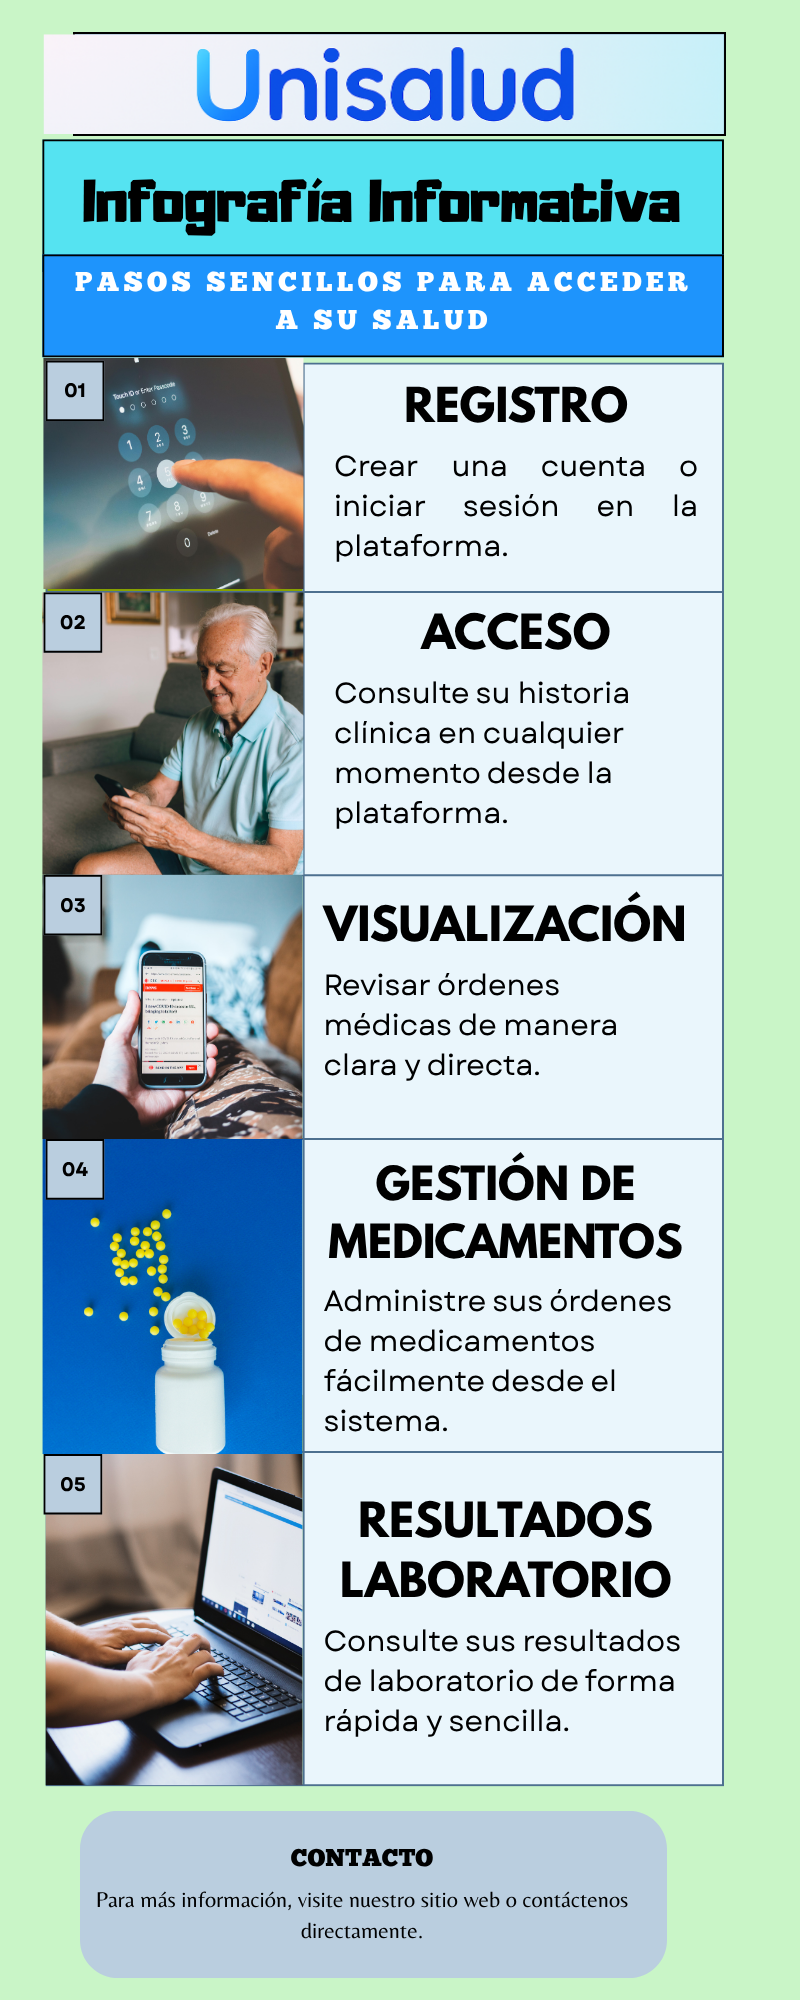
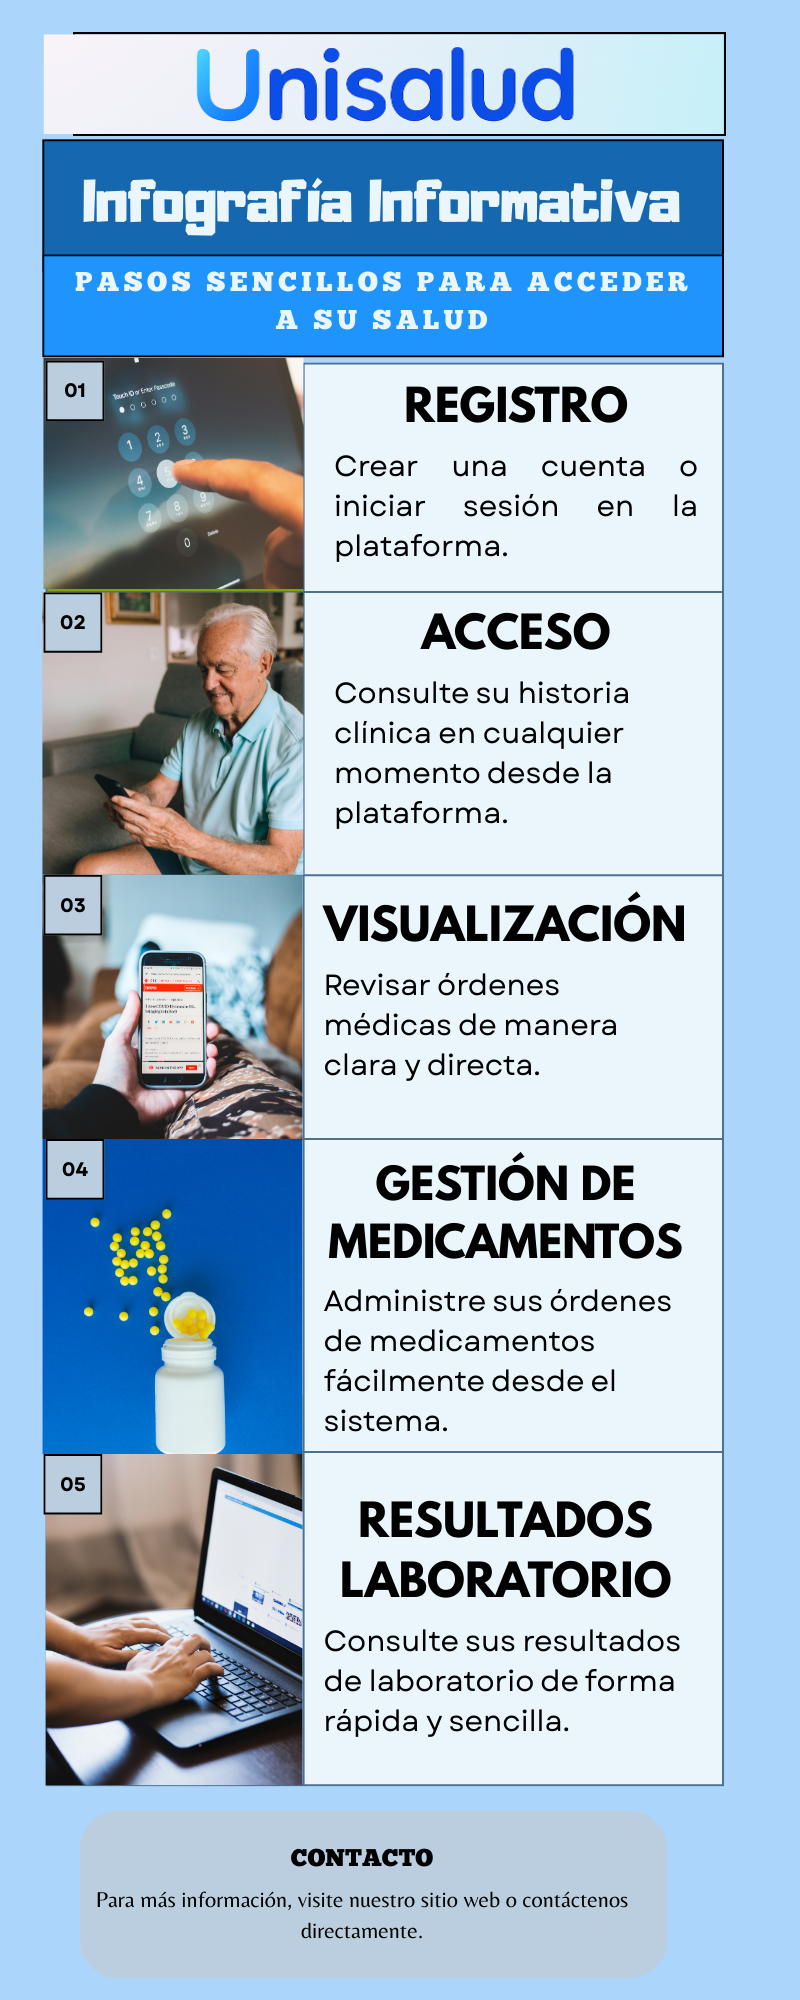
si

Changed region(s): [[0.0, 0.0, 1.0, 1.0]]

diff --git a/prof_salud/templates/paginas/inicio_prof_salud.html b/prof_salud/templates/paginas/inicio_prof_salud.html
@@ -142,6 +142,11 @@
     min-height: 100vh;
     padding: 20px 0;
 }
+.main.dark-mode{
+    background: #101418 !important;
+    min-height: 100vh;
+    padding: 20px 0;
+}
 
 .welcome-section {
     text-align: left;
